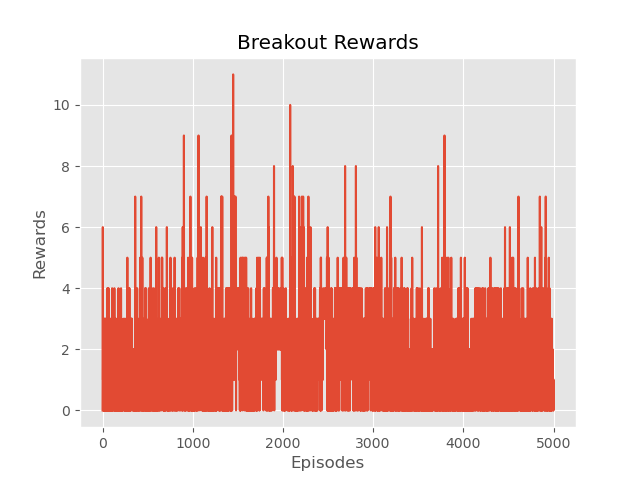
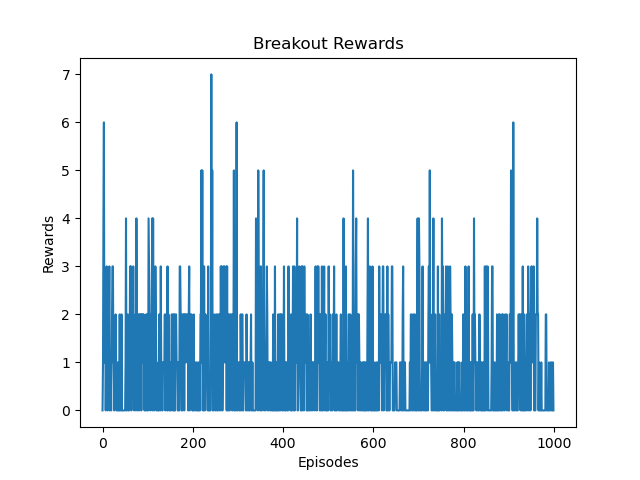
actual working CNN

diff --git a/src/DQN.py b/src/DQN.py
@@ -23,13 +23,13 @@ import os
 os.environ["KMP_DUPLICATE_LIB_OK"]="TRUE"
 
 class DQN(nn.Module):
-    def __init__(self, n_obs, n_action):
+    def __init__(self):
         super(DQN, self).__init__()
         self.conv1 = nn.Conv2d(1, 32, kernel_size=8, stride=4)
         self.conv2 = nn.Conv2d(32, 64, kernel_size=4, stride=2)
         self.conv3 = nn.Conv2d(64, 64, kernel_size=3, stride=1)
-        self.fc1 = nn.Linear(3136*512, 512)  
-        self.fc2 = nn.Linear(512, n_action)
+        self.fc1 = nn.Linear(49, 49)  
+        self.fc2 = nn.Linear(49, 4)
 
     def forward(self, x):
         x = F.relu(self.conv1(x))
@@ -77,8 +77,8 @@ class DQN_Network():
         self.optimizer = optim.Adam(self.policy_network.parameters(), lr=self.alpha)
 
     def init_networks(self) -> None:
-        self.policy_network = DQN(self.observation_space, self.action_space).to(self.device)
-        self.target_network = DQN(self.observation_space, self.action_space).to(self.device)
+        self.policy_network = DQN().to(self.device)
+        self.target_network = DQN().to(self.device)
         self.target_network.load_state_dict(self.policy_network.state_dict())
 
         self.init_optimizer()
@@ -97,25 +97,32 @@ class DQN_Network():
         if len(self.memory) < self.batch_size:
             return
 
-        batch = self.memory.sample(self.batch_size)
-        S, A, R, S_prime = zip(*batch)
+        # Sample random minibatch of transitions from D
+        batches = self.memory.sample(self.batch_size)
+        
+        #S, A, R, S_prime = zip(*batch)
 
-        S = torch.cat(S).to(self.device)
-        A = torch.tensor(A, dtype=torch.int64).to(self.device)
-        R = torch.tensor(R).to(self.device)
-        S_prime = torch.cat(S_prime).to(self.device)
+        #S = torch.cat(S).to(self.device)
+        #A = torch.tensor(A, dtype=torch.int64).to(self.device)
+        #R = torch.tensor(R).to(self.device)
+        #S_prime = torch.cat(S_prime).to(self.device)
 
-        Q = self.policy_network(S).gather(1, A.unsqueeze(1))
-        Q_prime = self.target_network(S_prime).max(1)[0].detach()
+        # TODO: make batch trainning work
+        for _, batch in enumerate(batches):
+            S, A, R, S_prime = batch
 
-        target = R + self.gamma * Q_prime
-        loss = F.smooth_l1_loss(Q, target.unsqueeze(1))
+            # compute Q(s_t, a)
+            Q = self.policy_network(S)[:, A]
+            Q_prime = self.target_network(S_prime).max(1)[0].detach()
 
-        self.optimizer.zero_grad()
-        loss.backward()
+            target = R + self.gamma * Q_prime
+            loss = F.smooth_l1_loss(Q, target)
 
-        torch.nn.utils.clip_grad_value_(self.policy_network.parameters(), 1)
-        self.optimizer.step()
+            self.optimizer.zero_grad()
+            loss.backward()
+
+            torch.nn.utils.clip_grad_value_(self.policy_network.parameters(), 100)
+            self.optimizer.step()
 
     def update_target_network(self, t: int = 0) -> None:
         if t % self.C == 0:

diff --git a/main.py b/main.py
@@ -23,7 +23,7 @@ np.random.seed(0)
 torch.manual_seed(0)
 
 def main():
-    num_episodes = 5_000
+    num_episodes = 100
     max_memory = 1000
 
     # init environment
@@ -56,6 +56,7 @@ def main():
             S_prime = torch.tensor(env.convert_observation(), dtype=torch.float32, device=dqn.device).unsqueeze(0)
 
             R = torch.tensor(R, dtype=torch.float32, device=dqn.device)
+            assert A <= n_actions
             memory.add((S, A, R, S_prime))
 
             dqn.minibatch_update()
